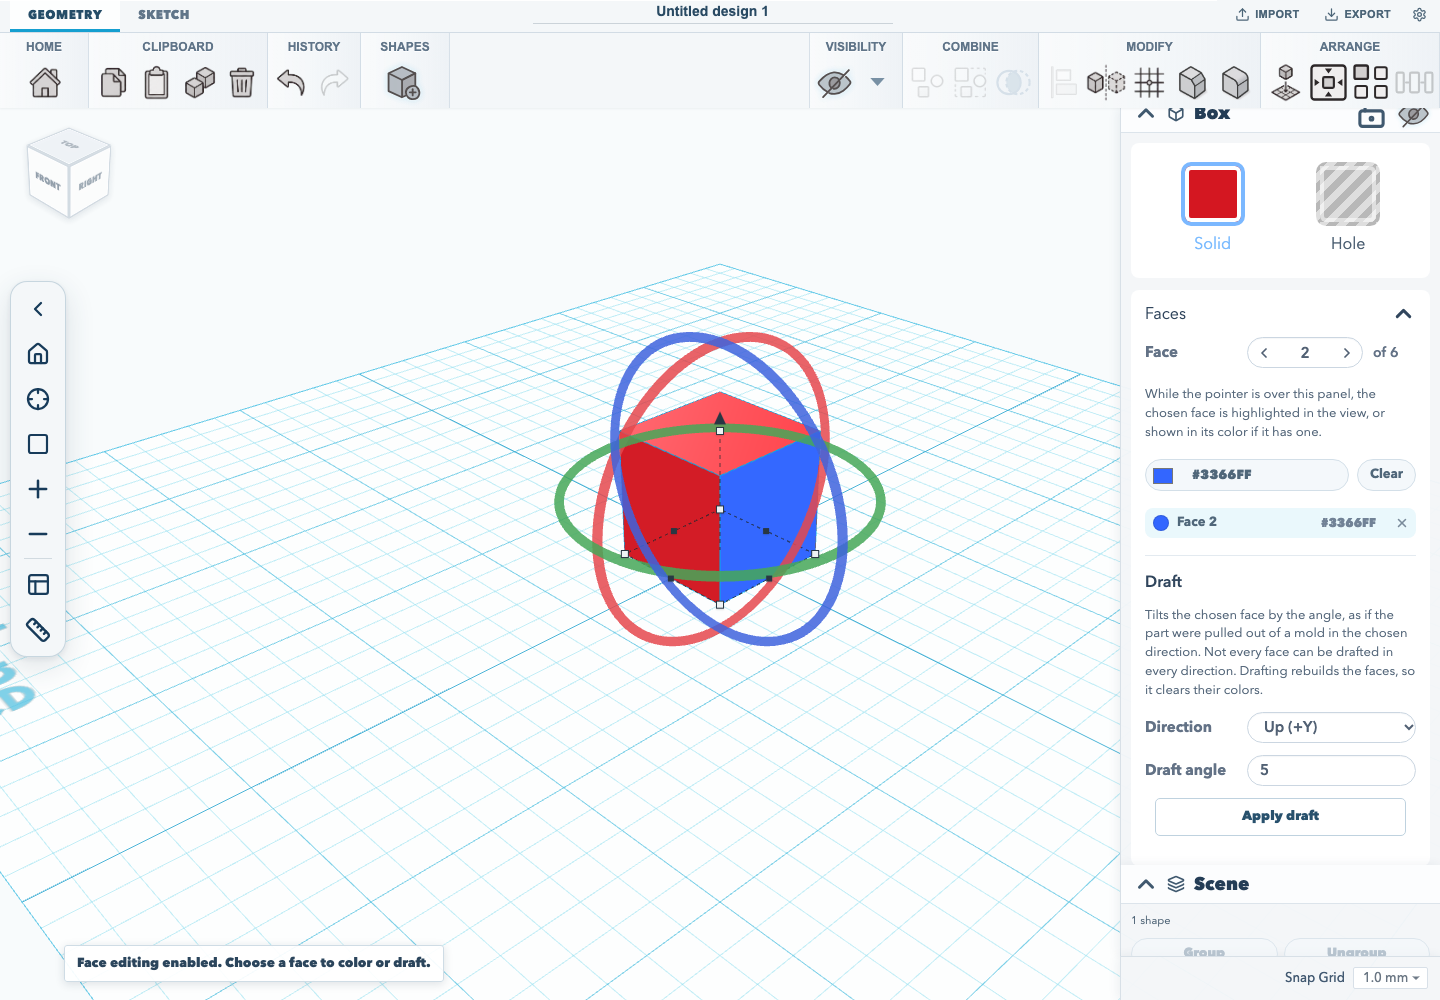
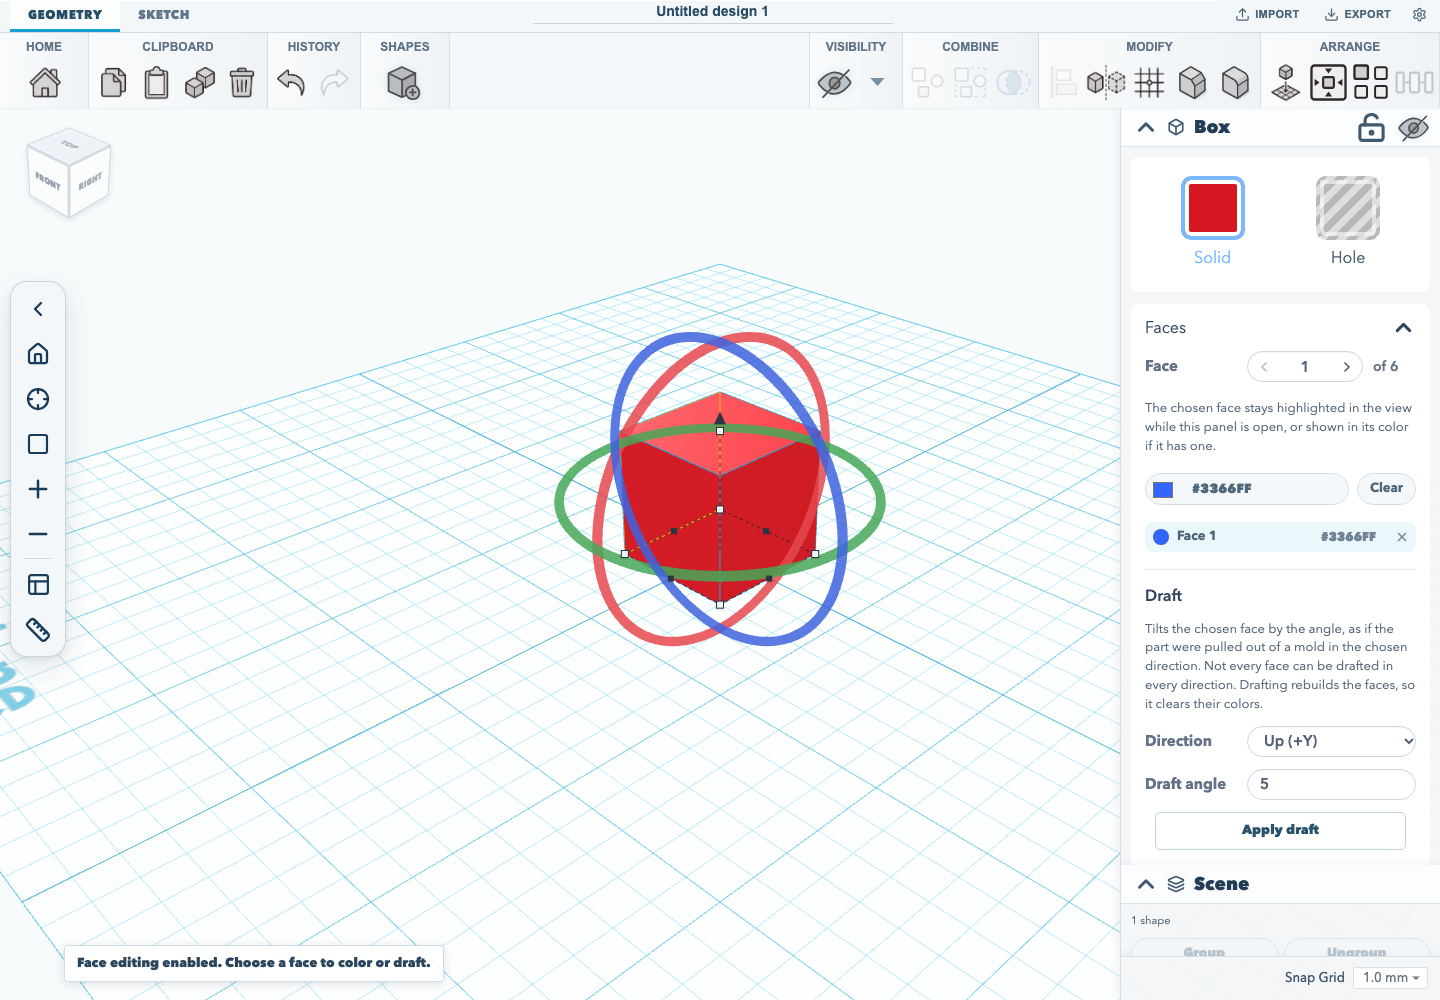
feat(editor): outline the face being edited

diff --git a/apps/web/src/components/WorkplaneViewport.tsx b/apps/web/src/components/WorkplaneViewport.tsx
@@ -21,11 +21,10 @@ import { WorkspaceSettingsModal } from "@/components/workplane/WorkspaceSettings
 import type { AppThemePreference, ResolvedAppTheme } from "@/lib/appTheme";
 import type { ChallengeTutorialId } from "@/lib/challenges";
 import { cadModifierPrimitiveForBakedShape, cadTransformFromMatrix, cadTransformToMatrix } from "@/lib/engine/cadBakeMetadata";
-import { withFaceHighlight } from "@/lib/shapeFaces";
 import { orthographicFramingZoom, perspectiveFramingDistance } from "@/lib/cameraFraming";
 import { orthographicHalfHeightAtDistance, orthographicVisibleHalfHeight, perspectiveDistanceForHalfHeight, toggledCameraProjection, type CameraProjection } from "@/lib/cameraProjection";
 import { createGearGeometry } from "@/lib/gearGeometry";
-import { createFaceColorPreviewGeometry } from "@/lib/faceColorPreview";
+import { createFaceColorPreviewGeometry, createFaceHighlightGeometry } from "@/lib/faceColorPreview";
 import { createLoftGeometry } from "@/lib/loftGeometry";
 import { resolveShapeAppearance } from "@/lib/shapeAppearance";
 import { parseMeasurementInput } from "@/lib/measurementUnits";
@@ -304,7 +303,7 @@ type ShapeRenderRecord = {
 };
 
 type ThreeState = {
-  /** The face the inspector's face tools are pointing at; painted for display only. */
+  /** The face the inspector's face tools are pointing at; outlined in the viewport only. */
   faceHighlight?: { shapeId: string; faceIndex: number } | null;
   renderer: THREE.WebGLRenderer;
   scene: THREE.Scene;
@@ -2498,6 +2497,7 @@ export function WorkplaneViewport({
 
   const hostRef = useRef<HTMLDivElement | null>(null);
   const threeRef = useRef<ThreeState | null>(null);
+  const faceHighlightRef = useRef<{ shapeId: string; faceIndex: number } | null>(null);
   const shapesRef = useRef(shapes);
   const alignReferenceShapesRef = useRef(alignReferenceShapes);
   const mirrorReferenceShapesRef = useRef(mirrorReferenceShapes);
@@ -2560,10 +2560,11 @@ export function WorkplaneViewport({
   );
 
   const highlightFace = useCallback((faceIndex: number | null) => {
-    const state = threeRef.current;
-    if (!state) return;
     const shapeId = selectedIdsRef.current.length === 1 ? selectedIdsRef.current[0] : undefined;
     const next = shapeId && faceIndex !== null ? { shapeId, faceIndex } : null;
+    faceHighlightRef.current = next;
+    const state = threeRef.current;
+    if (!state) return;
     const current = state.faceHighlight ?? null;
     if (current?.shapeId === next?.shapeId && current?.faceIndex === next?.faceIndex) return;
     state.faceHighlight = next;
@@ -3067,6 +3068,7 @@ export function WorkplaneViewport({
 
     const state = createThreeScene(host);
     threeRef.current = state;
+    state.faceHighlight = faceHighlightRef.current;
     rebuildWorkplane(state, workspaceRef.current, resolvedThemeRef.current, placementWorkplaneRef.current);
     // The scene is built after the projection effect has already run for the first
     // time, so the stored preference is applied here on mount.
@@ -6734,13 +6736,9 @@ function rebuildShapes(
     return;
   }
   const highlight = state.faceHighlight;
-  const shapes = highlight
-    ? projectShapes.map((shape) => shape.id === highlight.shapeId ? withFaceHighlight(shape, highlight.faceIndex) : shape)
-    : projectShapes;
-
   clearCutPreviewOverlays(state);
   const selected = new Set(selectedIds);
-  const visibleShapes = shapes.filter((shape) => !shape.hidden);
+  const visibleShapes = projectShapes.filter((shape) => !shape.hidden);
 
   if (useOfficialModifierRendering) {
     disposeChildren(state.shapeLayer);
@@ -6749,13 +6747,13 @@ function rebuildShapes(
     visibleShapes.forEach((shape) => {
       const object = createShapeObject(shape, selected.has(shape.id), () => {
         state.needsRender = true;
-      }, false);
+      }, false, highlight?.shapeId === shape.id ? highlight.faceIndex : null);
       state.shapeLayer.add(object);
     });
     if (showCutPreviews) {
       syncCutPreviewOverlays(state, visibleShapes);
     }
-    rebuildSelectionHelpers(state, shapes, selectedIds, workplane);
+    rebuildSelectionHelpers(state, projectShapes, selectedIds, workplane);
     state.needsRender = true;
     return;
   }
@@ -6779,8 +6777,9 @@ function rebuildShapes(
     const transformSignature = shapeTransformSignature(shape);
     const materialSignature = shapeMaterialSignature(shape);
     const geometrySignature = shapeGeometrySignature(shape);
+    const faceHighlightIndex = highlight?.shapeId === shape.id ? highlight.faceIndex : null;
     let record = state.shapeRecords.get(shape.id);
-    if (record && record.geometrySignature !== geometrySignature) {
+    if (record && (record.geometrySignature !== geometrySignature || record.object.userData.faceHighlightIndex !== faceHighlightIndex)) {
       state.shapeLayer.remove(record.object);
       disposeObject(record.object);
       state.shapeRecords.delete(shape.id);
@@ -6790,7 +6789,7 @@ function rebuildShapes(
     if (!record) {
       const object = createShapeObject(shape, selectedShape, () => {
         state.needsRender = true;
-      });
+      }, true, faceHighlightIndex);
       state.shapeLayer.add(object);
       record = {
         object,
@@ -6826,7 +6825,7 @@ function rebuildShapes(
     syncCutPreviewOverlays(state, visibleShapes);
   }
 
-  rebuildSelectionHelpers(state, shapes, selectedIds, workplane);
+  rebuildSelectionHelpers(state, projectShapes, selectedIds, workplane);
   state.needsRender = true;
 }
 
@@ -8041,12 +8040,14 @@ function createShapeObject(
   showEdges = false,
   onTextureReady?: () => void,
   acceleratedPicking = true,
+  faceHighlightIndex: number | null = null,
 ) {
   const group = new THREE.Group();
   group.name = shape.name;
   group.userData.shapeId = shape.id;
   group.userData.showEdges = showEdges;
   group.userData.acceleratedPicking = acceleratedPicking;
+  group.userData.faceHighlightIndex = faceHighlightIndex;
   group.userData.rulerDimensions = [shapeWidth(shape), shape.height, shapeDepth(shape)] satisfies [number, number, number];
   group.userData.rulerTopologyKey = rulerShapeTopologyKey(shape);
   group.position.set(shape.x, (shape.elevation ?? 0) + shape.height / 2, shape.z);
@@ -8213,6 +8214,7 @@ function createShapeObject(
             height / Math.max(0.001, shape.importedMesh.baseHeight),
             depth / Math.max(0.001, shape.importedMesh.baseDepth),
           ),
+          faceHighlightIndex,
         );
       } else {
         addMesh(group, sharedShapeGeometry(geometryCacheKey, () => new THREE.BoxGeometry(size, Math.max(3, height * 0.35), size * 0.72)), material, shape);
@@ -8355,6 +8357,7 @@ function addMesh(
   position?: THREE.Vector3,
   rotation?: THREE.Euler,
   scale?: THREE.Vector3,
+  faceHighlightIndex: number | null = null,
 ) {
   const based = geometry.userData.cached ? geometry : putGeometryOnBase(geometry);
   const prepared = taperGeometryForShape(based, shape);
@@ -8379,6 +8382,23 @@ function addMesh(
   }
   group.add(mesh);
   addShapeEdgeDecorations(group, mesh, prepared, shape);
+  if (faceHighlightIndex !== null && shape.importedMesh?.faceGroups?.length) {
+    const outline = createFaceHighlightGeometry({
+      positions: shape.importedMesh.positions,
+      faceGroups: shape.importedMesh.faceGroups,
+    }, faceHighlightIndex);
+    if (outline.getAttribute("position").count) {
+      const lineMaterial = new THREE.LineBasicMaterial({ color: "#ffb400", depthTest: false, depthWrite: false });
+      const line = new THREE.LineSegments(outline, lineMaterial);
+      line.position.copy(mesh.position);
+      line.rotation.copy(mesh.rotation);
+      line.scale.copy(mesh.scale);
+      line.renderOrder = 1004;
+      line.userData.shapeDecoration = true;
+      line.userData.faceHighlight = true;
+      group.add(line);
+    } else outline.dispose();
+  }
 }
 
 function addShapeEdgeDecorations(group: THREE.Group, mesh: THREE.Mesh, prepared: THREE.BufferGeometry, shape: WorkplaneShape) {

diff --git a/apps/web/src/lib/faceColorPreview.ts b/apps/web/src/lib/faceColorPreview.ts
@@ -52,6 +52,42 @@ export function createFaceColorPreviewGeometry(mesh: FaceGroupedMesh, faceColors
   return geometry;
 }
 
+/** Build only the selected B-rep face's outer wire for a viewport edit cue. */
+export function createFaceHighlightGeometry(mesh: FaceGroupedMesh, selectedFaceIndex: number) {
+  const triangleCount = Math.floor(mesh.positions.length / 9);
+  const unit = faceGroupUnit(mesh.faceGroups, triangleCount);
+  const edges = new Map<string, { count: number; points: number[] }>();
+  for (let group = 0; group + 2 < mesh.faceGroups.length; group += 3) {
+    if (mesh.faceGroups[group + 2] !== selectedFaceIndex) continue;
+    const start = mesh.faceGroups[group]! / unit;
+    const count = mesh.faceGroups[group + 1]! / unit;
+    if (!Number.isInteger(start) || !Number.isInteger(count) || start < 0 || count < 0) continue;
+    const end = Math.min(triangleCount, start + count);
+    for (let triangle = start; triangle < end; triangle += 1) {
+      const vertices = Array.from({ length: 3 }, (_, vertex) => {
+        const offset = triangle * 9 + vertex * 3;
+        return [mesh.positions[offset]!, mesh.positions[offset + 1]!, mesh.positions[offset + 2]!];
+      });
+      for (let edge = 0; edge < 3; edge += 1) {
+        const a = vertices[edge]!;
+        const b = vertices[(edge + 1) % 3]!;
+        const keyFor = (point: number[]) => point.map((coordinate) => Math.round(coordinate * 1e5)).join(",");
+        const aKey = keyFor(a);
+        const bKey = keyFor(b);
+        const key = aKey < bKey ? `${aKey}|${bKey}` : `${bKey}|${aKey}`;
+        const existing = edges.get(key);
+        if (existing) existing.count += 1;
+        else edges.set(key, { count: 1, points: [...a, ...b] });
+      }
+    }
+  }
+  const positions: number[] = [];
+  edges.forEach(({ count, points }) => { if (count === 1) positions.push(...points); });
+  const geometry = new THREE.BufferGeometry();
+  geometry.setAttribute("position", new THREE.Float32BufferAttribute(positions, 3));
+  return geometry;
+}
+
 /**
  * Server CAD results stored by earlier versions kept the kernel's ranges as-is, in
  * index-buffer entries (three per triangle), so their groups cover three times

diff --git a/apps/web/src/components/workplane/ShapeFaceTools.tsx b/apps/web/src/components/workplane/ShapeFaceTools.tsx
@@ -20,8 +20,8 @@ const PULL_AXIS_LABELS: Record<DraftFacePullAxis, MessageKey> = {
 /**
  * The inspector's face colour and face draft tools.
  *
- * Both act on one face, chosen once here and highlighted in the viewport while
- * the pointer or focus is in the card. A shape without exact faces gets an
+ * Both act on one face, chosen once here and outlined in the viewport while
+ * this card is open. A shape without exact faces gets an
  * explicit "Enable face editing" action instead of the tools simply not being
  * there.
  */
@@ -47,7 +47,6 @@ export function ShapeFaceTools({
   const [open, setOpen] = useState(true);
   const [faceIndex, setFaceIndex] = useState(0);
   const [faceInput, setFaceInput] = useState("1");
-  const [active, setActive] = useState(false);
   const [enabling, setEnabling] = useState(false);
   const [pullAxis, setPullAxis] = useState<DraftFacePullAxis>("y");
   const [angle, setAngle] = useState("5");
@@ -74,8 +73,8 @@ export function ShapeFaceTools({
     }
   }, [faceCount, faceIndex]);
   useEffect(() => {
-    onHighlightFace?.(exact && open && active ? faceIndex : null);
-  }, [active, exact, faceIndex, onHighlightFace, open]);
+    onHighlightFace?.(exact && open ? faceIndex : null);
+  }, [exact, faceIndex, onHighlightFace, open, shape.id]);
   useEffect(() => () => onHighlightFace?.(null), [onHighlightFace]);
 
   const coloredFaces = Object.entries(shape.faceColors ?? {})
@@ -90,12 +89,6 @@ export function ShapeFaceTools({
     <section
       className={`property-card face-tools-card ${open ? "" : "collapsed"}`}
       aria-label={t("panels.inspector.faces.title")}
-      onPointerEnter={() => setActive(true)}
-      onPointerLeave={() => setActive(false)}
-      onFocus={() => setActive(true)}
-      onBlur={(event) => {
-        if (!event.currentTarget.contains(event.relatedTarget as Node | null)) setActive(false);
-      }}
     >
       <button
         className="property-card-header"

diff --git a/tests/unit/shapeFaces.test.ts b/tests/unit/shapeFaces.test.ts
@@ -1,6 +1,6 @@
 import { describe, expect, it } from "vitest";
 import type { WorkplaneShape } from "@/types/sketchforge";
-import { FACE_HIGHLIGHT_COLOR, faceColorsWith, faceEditingCanBeEnabled, shapeFaceCount, shapeFaceKey, shapeHasExactFaces, withFaceHighlight } from "@/lib/shapeFaces";
+import { faceColorsWith, faceEditingCanBeEnabled, shapeFaceCount, shapeFaceKey, shapeHasExactFaces } from "@/lib/shapeFaces";
 
 function shape(overrides: Partial<WorkplaneShape> = {}): WorkplaneShape {
   return {
@@ -31,20 +31,6 @@ describe("shape faces", () => {
   it("keys a face colour by stable ID when the shape has one", () => {
     expect(shapeFaceKey(shape({ faceIds: ["a", "b"] }), 1)).toBe("b");
     expect(shapeFaceKey(shape(), 1)).toBe("1");
-  });
-
-  it("paints the highlighted face for display without touching the stored colours", () => {
-    const stored = { "1": "#00ff00" };
-    const source = shape({ kind: "mesh", cadBrep: "brep", importedMesh: mesh([0, 1, 0, 1, 1, 1]), faceColors: stored });
-    const shown = withFaceHighlight(source, 0);
-    expect(shown.faceColors).toEqual({ "0": FACE_HIGHLIGHT_COLOR, "1": "#00ff00" });
-    expect(source.faceColors).toBe(stored);
-    expect(withFaceHighlight(shape({ faceIds: ["a", "b"], kind: "mesh", importedMesh: mesh([0, 1, 0]) }), 1).faceColors).toEqual({ b: FACE_HIGHLIGHT_COLOR });
-    // A face that already has a colour shows that colour, not the highlight.
-    expect(withFaceHighlight(source, 1)).toBe(source);
-    // Without face groups there is nothing to paint, so the shape is returned as is.
-    const plain = shape();
-    expect(withFaceHighlight(plain, 0)).toBe(plain);
   });
 
   it("offers to enable face editing on solid primitives that do not have exact faces yet", () => {

diff --git a/tests/unit/faceColorPreview.test.ts b/tests/unit/faceColorPreview.test.ts
@@ -1,6 +1,6 @@
 import { describe, expect, it } from "vitest";
 import * as THREE from "three";
-import { createFaceColorPreviewGeometry } from "@/lib/faceColorPreview";
+import { createFaceColorPreviewGeometry, createFaceHighlightGeometry } from "@/lib/faceColorPreview";
 
 describe("face color viewport preview", () => {
   it("uses persisted face IDs to color face groups while retaining numeric-key compatibility", () => {
@@ -58,5 +58,21 @@ describe("face color viewport preview", () => {
     const colors = geometry.getAttribute("color") as THREE.BufferAttribute;
     expect([colors.getX(0), colors.getY(0), colors.getZ(0)]).not.toEqual([1, 0, 0]);
     expect([colors.getX(3), colors.getY(3), colors.getZ(3)]).toEqual([1, 0, 0]);
+  });
+});
+
+describe("face highlight geometry", () => {
+  it("outlines only the outer boundary of the selected triangulated face", () => {
+    const mesh = {
+      positions: [
+        0, 0, 0, 1, 0, 0, 1, 1, 0,
+        0, 0, 0, 1, 1, 0, 0, 1, 0,
+      ],
+      faceGroups: [0, 2, 0],
+    };
+    const geometry = createFaceHighlightGeometry(mesh, 0);
+    expect(geometry.getAttribute("position").count).toBe(8);
+    expect(createFaceHighlightGeometry(mesh, 1).getAttribute("position").count).toBe(0);
+    geometry.dispose();
   });
 });

diff --git a/apps/web/src/lib/shapeFaces.ts b/apps/web/src/lib/shapeFaces.ts
@@ -47,17 +47,3 @@ export function faceColorsWith(shape: WorkplaneShape, faceIndex: number, color: 
   else next[key] = color;
   return next;
 }
-
-/**
- * A display-only copy of the shape with one uncoloured face painted in the
- * highlight colour. It is only ever handed to the viewport's renderer, never
- * stored.
- */
-export function withFaceHighlight(shape: WorkplaneShape, faceIndex: number): WorkplaneShape {
-  if (!shape.importedMesh?.faceGroups?.length) return shape;
-  const key = shapeFaceKey(shape, faceIndex);
-  // A coloured face is already marked by its colour, and the person choosing it
-  // wants to see that colour, not the highlight over it.
-  if (shape.faceColors?.[key] ?? shape.faceColors?.[String(faceIndex)]) return shape;
-  return { ...shape, faceColors: { ...(shape.faceColors ?? {}), [key]: FACE_HIGHLIGHT_COLOR } };
-}

diff --git a/docs/CHANGELOG.md b/docs/CHANGELOG.md
@@ -12,7 +12,7 @@ owner: "Contributors"
 ## Unreleased
 
 - A shape tilted about a horizontal axis (**Tilt X** or **Tilt Z**) is now built exactly where the viewport draws it. Its exact solid was turned about the shape's base instead of its centre, so it landed a little off: a 30 × 10 × 6 mm box tilted 20° sat 0.18 mm low and 1.03 mm forward. That moved an exact cut made with a tilted cutter, or into a tilted solid, by the same amount. It also moved the edge midpoints and face centroids that `GET /edges` and `GET /faces` report for a tilted shape, which now turn about its centre too. Turning about the vertical axis was never affected. **Enable face editing** is now offered for tilted shapes as well.
-- Face colours and face drafts now share one **Faces** panel in the shape inspector, styled like the other property cards. A box, cylinder, sphere or other parametric solid offers **Enable face editing**, which rebuilds it as exact geometry in place, so a fillet or chamfer is no longer needed first. Imported pictures and shapes tilted about a horizontal axis do not offer it yet. One face stepper, numbered from 1 and showing the face count, drives both colour and draft, and the chosen face is highlighted in the view while the pointer is over the panel. Coloured faces are listed with a swatch and can be selected or cleared from the list. The panel no longer shows API routes or kernel terms. The draft's pull axis is now labelled **Direction**, and its error messages say what to try next.
+- Face colours and face drafts now share one **Faces** panel in the shape inspector, styled like the other property cards. A box, cylinder, sphere or other parametric solid offers **Enable face editing**, which rebuilds it as exact geometry in place, so a fillet or chamfer is no longer needed first. Imported pictures and shapes tilted about a horizontal axis do not offer it yet. One face stepper, numbered from 1 and showing the face count, drives both colour and draft, and the chosen face stays outlined in the view while the panel is open, even when it already has a color. Coloured faces are listed with a swatch and can be selected or cleared from the list. The panel no longer shows API routes or kernel terms. The draft's pull axis is now labelled **Direction**, and its error messages say what to try next.
 - Face colours now show in the viewport on shapes made exact in the editor: filleted or chamfered shapes, sketch extrusions and sweeps, draft prisms and drafted faces. The editor's CAD workers meshed these without saying which triangles belong to which face, so a stored colour had nothing to paint until export. Server-side CAD results had the opposite fault. They stored each face's range in index-buffer entries rather than triangles, so a colour covered three times the triangles it should. New results store triangles, and the viewport recognises and converts ranges stored the old way.
 - Face colours chosen in the shape inspector are now kept. The editor treated a change that touched only a shape's face colours as no change and dropped it, so the card kept saying "No face colors assigned." The same check ignored 13 other fields, including face IDs, face and prism drafts, shell settings and STEP assembly links. It now compares every field a shape carries, so a field added later cannot be skipped the same way.
 - The TypeScript client can now cut, group, ungroup and separate shapes. `client.booleans.cut(projectId, { solidIds, holeIds })`, `client.groups.group(projectId, ids)`, `client.groups.ungroup(projectId, shapeId)` and `client.parts.separate(projectId, shapeId)` call `POST /booleans`, `POST /groups`, `DELETE /groups` and `POST /parts`. The project handle has the same four as `project.cut`, `group`, `ungroup` and `separate`, matching the Python client. Each is retried when the project lock is busy. A new example macro, `tap-drill-plate.macro.mjs`, drills a plate with `project.cut` and exports it as STL entirely through the API, and runs in the package integration suite. The README no longer claims the API has no grouping endpoint. Instead it records the real limit: a `thread` cutter is stored as a mesh, and the server's boolean cannot cut it yet.
